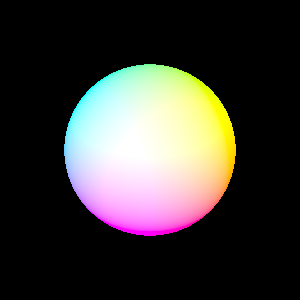
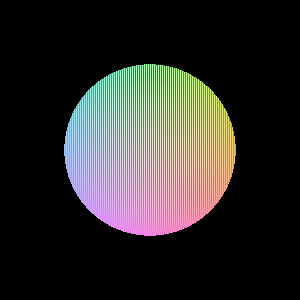
ellipse tests passing

Changed region(s): [[0.21, 0.21, 0.81, 0.81]]

diff --git a/ray1.2/src/ray/surface/Ellipsoid.java b/ray1.2/src/ray/surface/Ellipsoid.java
@@ -34,14 +34,12 @@ public class Ellipsoid extends Surface {
 	protected final Vector3 cAxis = new Vector3(0, 0, 1);
 	public void setCAxis(Vector3 cAxis) { this.cAxis.set(cAxis); this.cAxis.normalize(); }
     
-	//TODO: make this work for rotated ellipsoids
-	//? or does that occur in computeRayDirection
     @Override
     public HitRecord hit(Ray ray, double t0, double t1) 
 	{
         //throw new UnsupportedOperationException();
 		HitRecord hit = new HitRecord();
-
+		
 		//set up ray equation
 		Point3 o = ray.getOrigin();
 		Vector3 d = ray.getDirection();
@@ -50,7 +48,6 @@ public class Ellipsoid extends Surface {
 		//(x^2/a^2) + (y^2/b^2) + (z^2/c^2) - 1 = 0
 		//x,y,z = coords on ellipse (ray)
 		//a,b,c = x,y,z axis length respectfully
-		
 		//where min and max are the bounding coords of a box around the ellipsoid
 		double xMin = center.x - a;
 		double xMax = center.x + a;
@@ -61,11 +58,30 @@ public class Ellipsoid extends Surface {
 		setA((xMax - xMin) / 2.0);
 		setB((yMax - yMin) / 2.0);
 		setC((zMax - zMin) / 2.0);
-		
+
+		//localize ray direction
+		double rayDx = d.dot(aAxis);
+		double rayDy = d.dot(bAxis);
+		double rayDz = d.dot(cAxis);
+		Vector3 new_d = new Vector3(rayDx, rayDy, rayDz);
+		d = new_d;
+
+		//localize ray origin
+		Vector3 centerToRay = new Vector3();
+		centerToRay.sub(o, center);
+		double rayOx = centerToRay.dot(aAxis);
+		double rayOy = centerToRay.dot(bAxis);
+		double rayOz = centerToRay.dot(cAxis);
+		rayOx = rayOx + center.x;
+		rayOy = rayOy + center.y;
+		rayOz = rayOz + center.z;
+		Point3 new_o = new Point3(rayOx, rayOy, rayOz);
+		o = new_o;
+
+		// make new localized ray
+		Ray localRay = new Ray(o, d);
+
 		//calc quadratic equation coefficents
-		// double A = d.x * d.x / a * a + d.y * d.y / b * b + d.z * d.z / c * c;
-		// double B = 2 * (o.x * d.x / a * a + o.y * d.y / b * b + o.z * d.z / c * c);
-		// double C = o.x * o.x / a * a + o.y * o.y / b * b + o.z * o.z / c * c - 1;
 		double A = d.x * d.x / (a * a) + d.y * d.y / (b * b) + d.z * d.z / (c * c);
 		double B = 2 * (d.x * (o.x - center.x) / (a * a) + d.y * (o.y - center.y) / (b * b) + d.z * (o.z - center.z) / (c * c));
 		double C = (o.x - center.x) * (o.x - center.x) / (a * a) + (o.y - center.y) * (o.y - center.y) / (b * b) + (o.z - center.z) * (o.z - center.z) / (c * c) - 1;
@@ -78,22 +94,24 @@ public class Ellipsoid extends Surface {
 			if (root >= t0 && root <= t1) {
 
 				// calc intersection point
-				Point3 intersectionPoint = ray.evaluate(root);
+				//Point3 intersectionPoint = ray.evaluate(root);
+				Point3 intersectionPoint = localRay.evaluate(root);
 				
-				//calc normal
-				// Vector3 normal = new Vector3(
-                //     2 * intersectionPoint.x / (a * a),
-                //     2 * intersectionPoint.y / (b * b),
-                //     2 * intersectionPoint.z / (c * c)
-            	// );
-
+				//calc localized normal
 				Vector3 normal = new Vector3(
                 2 * (intersectionPoint.x - center.x) / (a * a),
                 2 * (intersectionPoint.y - center.y) / (b * b),
                 2 * (intersectionPoint.z - center.z) / (c * c)
             	);
-
 				normal.normalize();
+
+				//calc globalized normal
+				Vector3 globalNormal = new Vector3();
+				globalNormal.x = normal.x * aAxis.x + normal.y * bAxis.x + normal.z * cAxis.x;
+				globalNormal.y = normal.x * aAxis.y + normal.y * bAxis.y + normal.z * cAxis.y;
+				globalNormal.z = normal.x * aAxis.z + normal.y * bAxis.z + normal.z * cAxis.z;
+				globalNormal.normalize();
+				normal = globalNormal;
 
 				// return the hit
 				hit.set(this, root, normal);
@@ -104,4 +122,5 @@ public class Ellipsoid extends Surface {
         // No intersection found
         return null;		
     }
+
 }

diff --git a/ray1.2/src/ray/RayTracer.java b/ray1.2/src/ray/RayTracer.java
@@ -118,13 +118,13 @@ public class RayTracer {
 	public static Vector3 computeRayDirection(Scene scene, Vector3[] basis, int x, int y) 
 	{
 		//throw new UnsupportedOperationException();
+		//TODO shifted perspectives (oblique perspective views slide)
 
 		//gather relavant info
 		Camera camera = scene.getCamera();
 		double viewWidth = camera.viewWidth;
 		double viewHeight = camera.viewHeight;
 		double d = camera.projDistance;
-
 
 		//calculate u and v
 		//see ch4 slide 32 for formula
@@ -138,26 +138,6 @@ public class RayTracer {
 
 		double u = l + (r - l) * (x + .5) / nX;
 		double v = b + (t - b) * (y + .5) / nY;
-
-		//TODO: shifted perspectives
-		// Vector3 projNormal = camera.projNormal;
-		// projNormal.normalize();
-
-		// Vector3 viewDir = camera.viewDir;
-		// viewDir.normalize();
-		// viewDir.scale(d);
-
-		// Point3 centerOfViewPlane = camera.viewPoint;
-		// centerOfViewPlane.add(viewDir);
-
-		// Vector3 newW = projNormal;
-		// Vector3 newU = basis[0];
-		// Vector3 newV = basis[1];
-
-		// Vector3 rayDirection = new Vector3();
-		// rayDirection.scaleAdd(-d, newW); // W
-		// rayDirection.scaleAdd(u, newU);  // U
-		// rayDirection.scaleAdd(v, newV);  // V
 		
 		//ray direction from the book pg 92 (4.3.2 Perspective Views)
 		Vector3 rayDirection = new Vector3();
